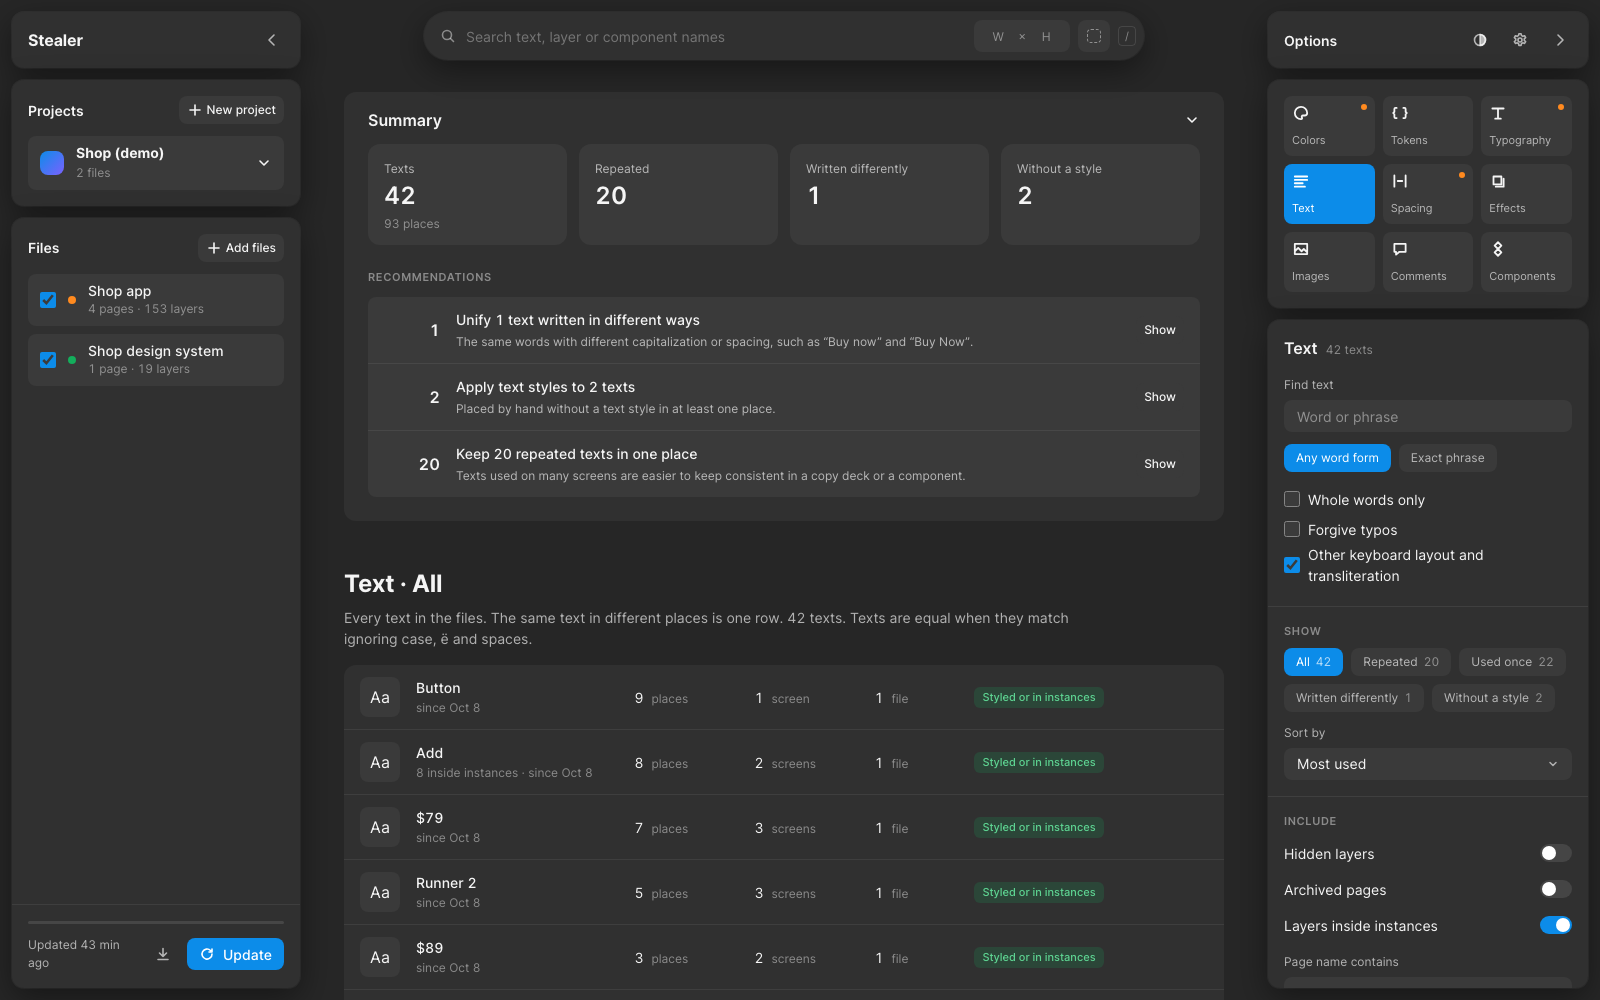
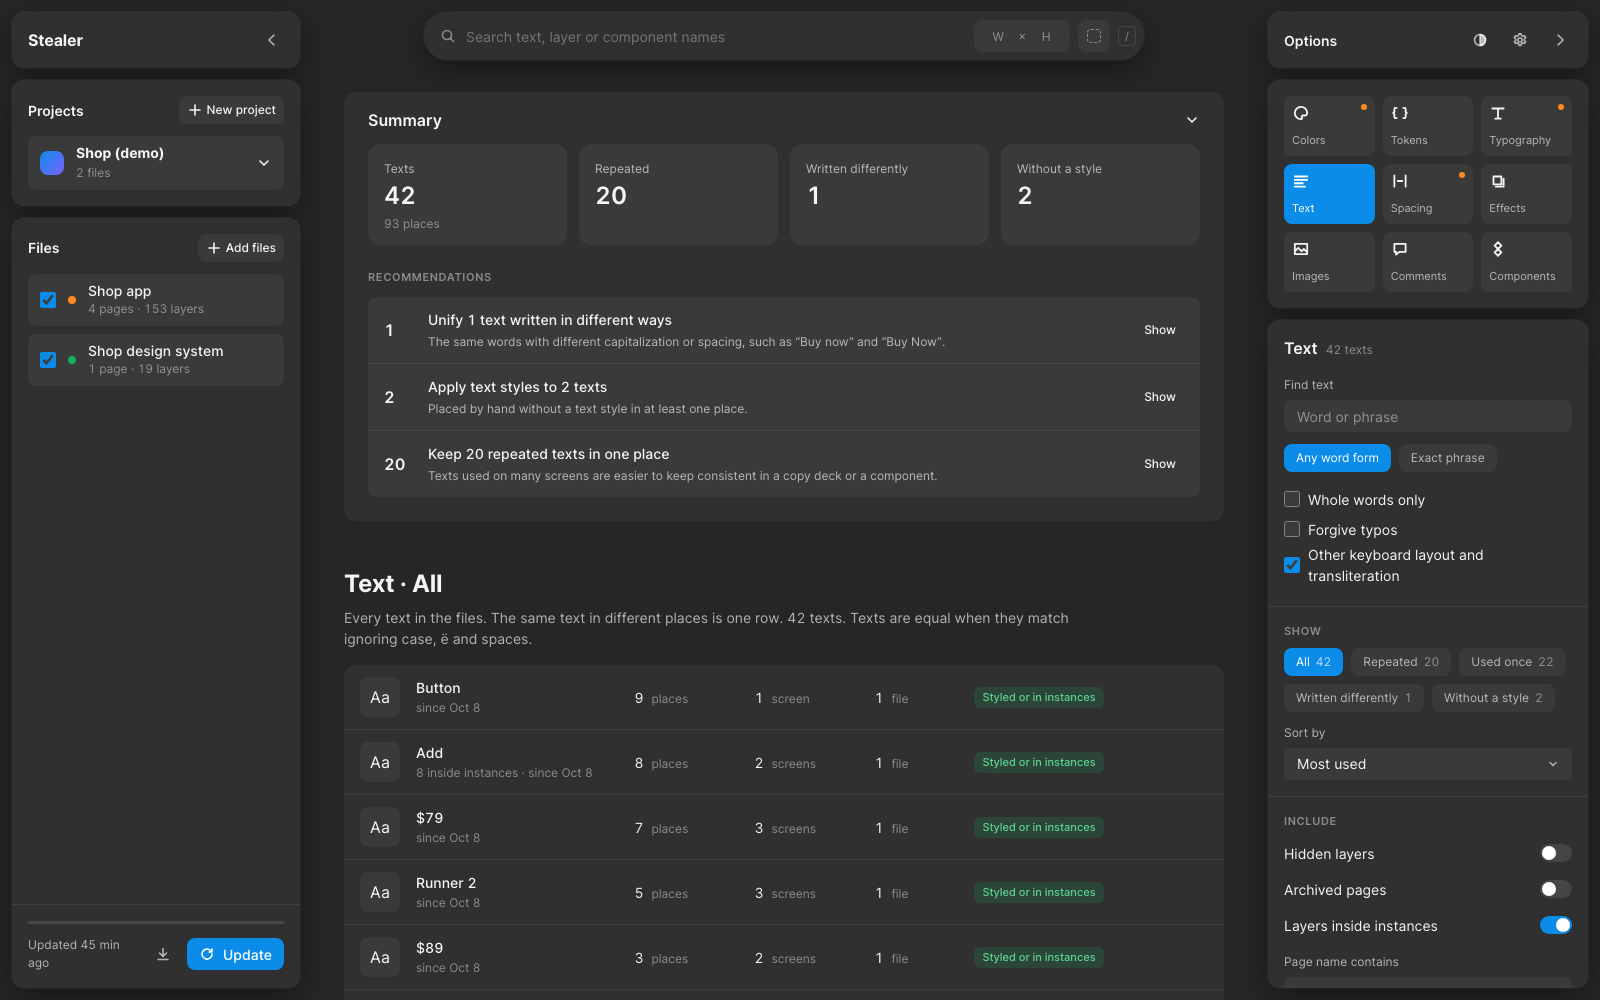
Recommendation counts start at the card edge like everything else

Changed region(s): [[0.25, 0.31, 0.5938, 0.496]]

diff --git a/coloro/static/app.css b/coloro/static/app.css
@@ -366,9 +366,9 @@ button.tile{cursor:pointer} button.tile:hover{background:var(--btn)}
 .sumbody .tile{background:var(--btn)}
 .sumbody h3{margin:var(--s5) 0 var(--s3)}
 .recs{display:flex;flex-direction:column;background:var(--btn);border-radius:var(--r-sm);overflow:hidden}
-.rec{display:grid;grid-template-columns:56px minmax(0,1fr) auto;gap:var(--s4);align-items:center;padding:var(--s3) var(--s4);border-top:1px solid var(--line-soft)}
+.rec{display:grid;grid-template-columns:minmax(28px,auto) minmax(0,1fr) auto;gap:var(--s4);align-items:center;padding:var(--s3) var(--s4);border-top:1px solid var(--line-soft)}
 .rec:first-child{border-top:0}
-.rec .rn{font-size:var(--fs-lg);font-weight:600;text-align:right}
+.rec .rn{font-size:var(--fs-lg);font-weight:600;text-align:left}
 .rec .rt b{display:block;font-weight:500} .rec .rt span{color:var(--label);font-size:var(--fs-sm)}
 .sfiles{display:grid;grid-template-columns:repeat(auto-fill,minmax(240px,1fr));gap:var(--s2)}
 .sfile{display:flex;align-items:center;gap:var(--s2);border:0;background:var(--btn);border-radius:var(--r-sm);height:40px;padding:0 var(--s3);cursor:pointer;text-align:left;color:inherit}
